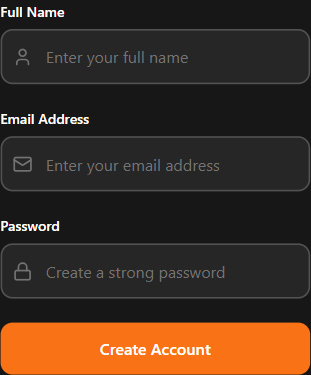
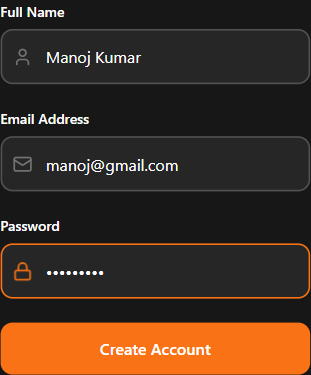
👍 Now this code is updated to fill the form fields (fullname, email, password)

diff --git a/agents-sdk-openai/browser-automation/playwright.js b/agents-sdk-openai/browser-automation/playwright.js
@@ -27,6 +27,12 @@ const browserAutomation = async () => {
       console.log("Form not found on the page");
     }
 
+    // Step 3.2: Fill the form fields using Playwright's fill() method (fullname, email, password)
+    await page.getByRole("textbox", { name: "Full Name" }).fill("Manoj Kumar");
+    await page.getByRole("textbox", { name: "Email" }).fill("manoj@gmail.com");
+    await page.getByRole("textbox", { name: "Password" }).fill("Manoj@123");
+    console.log("Form fields filled successfully");
+
     // Step 4: Take a screenshot
     // await page.screenshot({ path: "screenshot.png" });
     await form.screenshot({ path: "form-screenshot.png" });
@@ -67,6 +73,11 @@ Actual Process in Real World Scenarios:
 1. Instead of taking screenshot of the whole page, we will take screenshot of a specific element on the page using built-in locators in Playwright. like page.getByRole('button', { name: 'Submit' }).screenshot(). Docs: https://playwright.dev/docs/locators#locate-by-role
 
 ::::::👍 Now this code is updated to take screenshot of a specific element on the page (a form in this case)::::::
+
+2. Now we will fill the form fields using Playwright's fill() method. like page.getByRole('textbox', { name: 'Email' }).fill('manoj@gmail.com'). Docs: https://playwright.dev/docs/api/class-locator#locator-fill
+
+:::::👍 Now this code is updated to fill the form fields (fullname, email, password)::::::
+
 
 Resources: https://playwright.dev/docs/screenshots
 */
